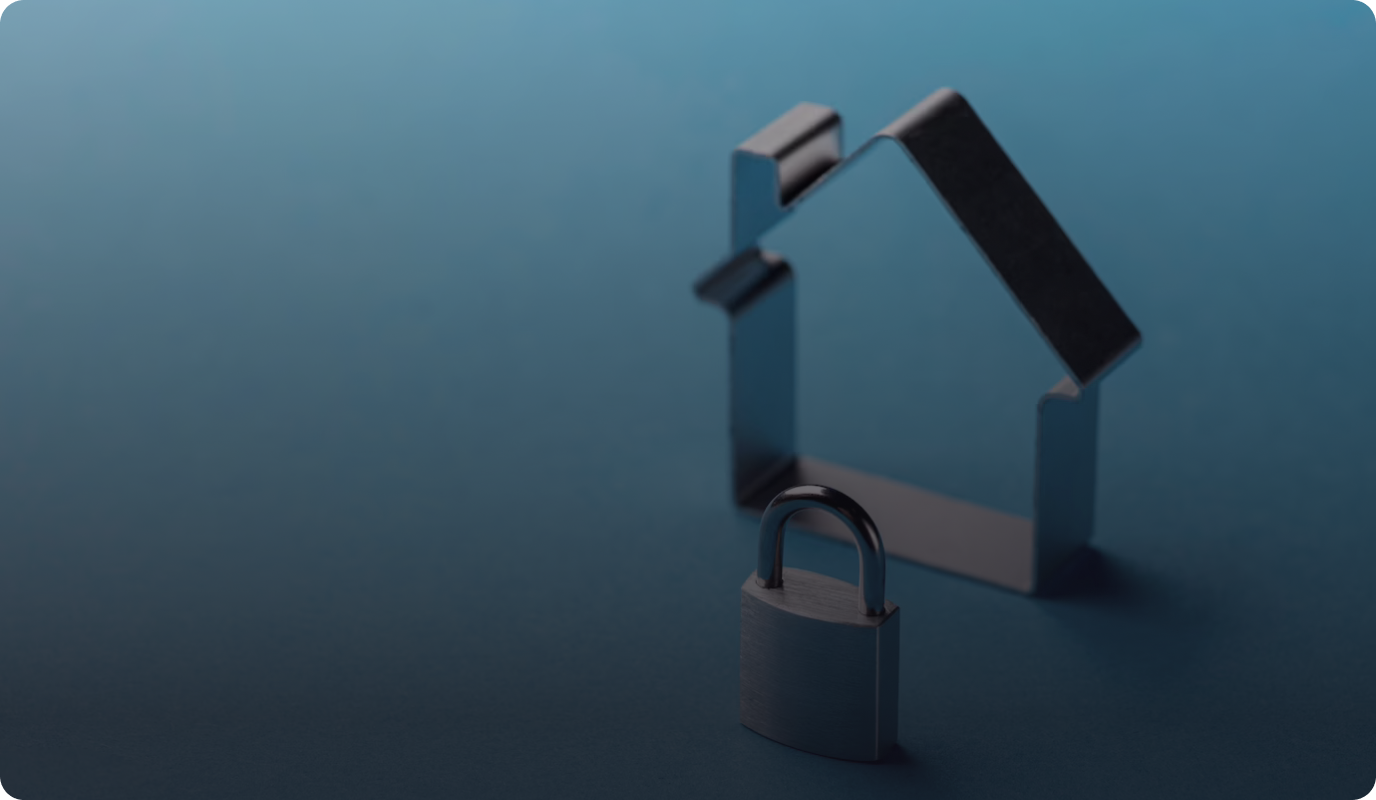
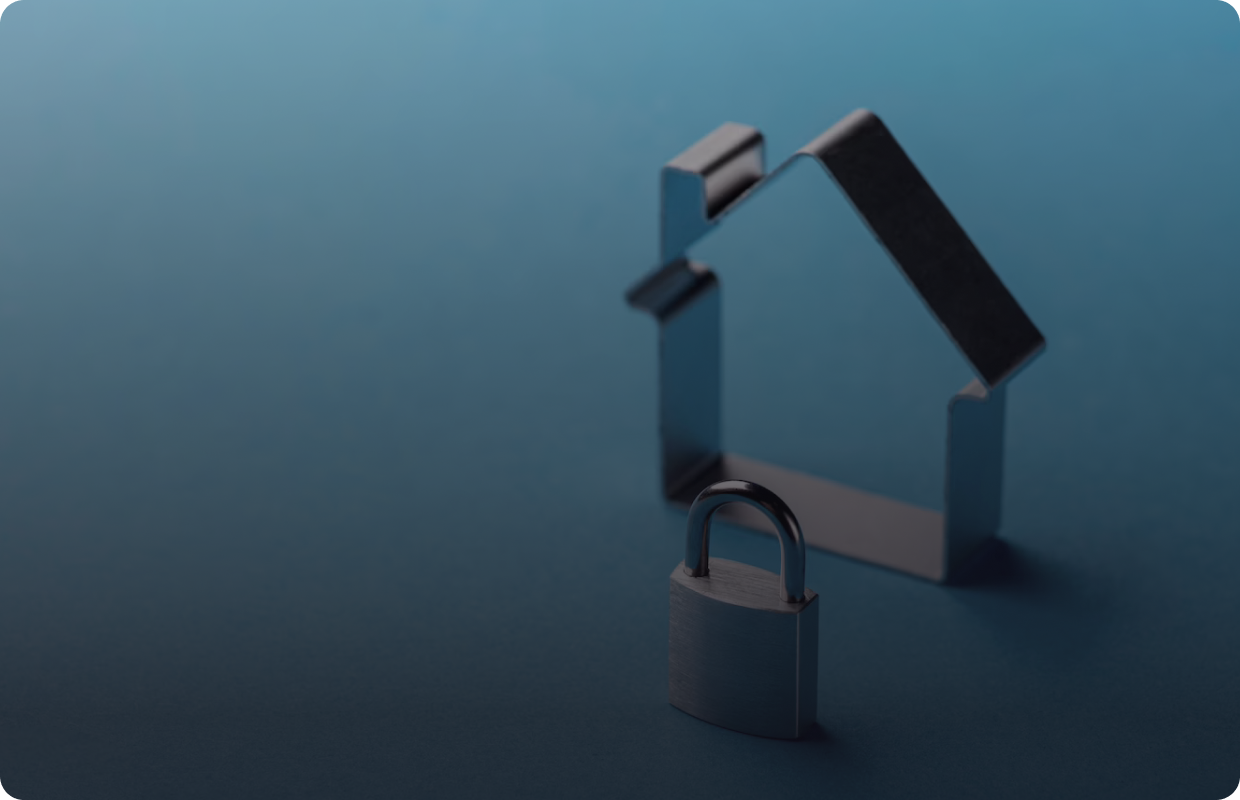
t

diff --git a/src/styles/globals.scss b/src/styles/globals.scss
@@ -20,12 +20,18 @@
   --psw-primary-color: #3e914a;
   --psw-danger-color: #f64e60;
   --psw-text1-color: #242429;
-  --psw-border1-color: rgba(0,0,0,.12);
-  --bs-font-sans-serif: system-ui,-apple-system,"Segoe UI",Roboto,"Helvetica Neue","Noto Sans","Liberation Sans",Arial,sans-serif,"Apple Color Emoji","Segoe UI Emoji","Segoe UI Symbol","Noto Color Emoji";
+  --psw-border1-color: rgba(0, 0, 0, .12);
+  --bs-font-sans-serif: system-ui, -apple-system, "Segoe UI", Roboto, "Helvetica Neue", "Noto Sans", "Liberation Sans", Arial, sans-serif, "Apple Color Emoji", "Segoe UI Emoji", "Segoe UI Symbol", "Noto Color Emoji";
   --bs-body-font-family: var(--bs-font-sans-serif);
 
 }
-@supports (font: -apple-system-body) and (-webkit-appearance: none) { img[loading="lazy"] { clip-path: inset(0.6px) } }
+
+@supports (font: -apple-system-body) and (-webkit-appearance: none) {
+  img[loading="lazy"] {
+    clip-path: inset(0.6px)
+  }
+}
+
 * {
   margin: 0;
   padding: 0;
@@ -33,44 +39,13 @@
 }
 
 html {
-  font-family: var(--bs-body-font-family);
-  background-image: url("../../public/as.png");
-  background-repeat: no-repeat;
-  background-position: top center;
-  background-attachment: fixed;
-  -webkit-background-size: cover;
-  -moz-background-size: cover;
-  -o-background-size: cover;
-  background-size: cover;
-
 
 }
 
-@media all and (max-width: 768px) {
-  html {
-    background-image: url("../../public/as.png");
-    -webkit-background-size: contain;
-    -moz-background-size: contain;
-    -o-background-size: contain;
-    background-size: auto;
-    background-position: top center;
-  }
 
-}
-
-@media all and (max-width: 375px) {
-  html {
-    background-image: url("../../public/as.png");
-    -webkit-background-size: contain;
-    -moz-background-size: contain;
-    -o-background-size: contain;
-    background-size: auto;
-    background-position: center;
-  }
-
-}
 
 body {
+  background: #27282D;
   width: 100%;
   min-height: 100vh;
   font-family: var(--bs-body-font-family);
@@ -80,15 +55,30 @@ body {
   max-width: 100%;
   height: 100%;
   margin: 0 auto;
+  z-index: 200;
+
 
 }
 
 .blur {
 
   transition: 0.3s ease;
-  filter: blur(2px) brightness(65%) ;
+  filter: blur(2px) brightness(65%);
 
 }
+
+
+.paralax {
+  position: fixed;
+  top: 50px;
+ left: 0;
+  max-width: 100%;
+  object-fit: cover;
+  height: 100vh;
+  z-index: -1;
+
+}
+
 
 .gray {
   background: #212121;

diff --git a/src/styles/_contactUs.scss b/src/styles/_contactUs.scss
@@ -121,15 +121,12 @@
         }
       }
 
-      .flag-dropdown {
-        width: 70px;
-      }
 
       .flag-dropdown {
         border: none;
         border-right: 1px solid rgba(255, 255, 255, 0.05);
         background: inherit;
-
+        width: 70px;
 
         .open {
           background: inherit;
@@ -138,8 +135,17 @@
         .selected-flag {
           width: 100%;
 
+          &:hover {
+            background: inherit;
+          }
+
+          &:focus {
+            background: inherit;
+          }
+
           .flag {
             margin-left: 10px;
+
           }
 
           .arrow, .up {
@@ -179,6 +185,7 @@
         &:focus {
           background: inherit;
         }
+
       }
     }
 

diff --git a/src/pages/index.js b/src/pages/index.js
@@ -1,5 +1,8 @@
 import Head from 'next/head';
 import React, { useState } from 'react';
+import Image from 'next/image';
+
+import paralax from '../../public/paralax.png';
 
 import Header from '../components/Header';
 import Welcome from '../components/Welcome';
@@ -29,7 +32,7 @@ export default function Home() {
           isShowMenu.burgerMenu === true || isShowMenu.contactMenu === true ? 'blur' : ''
         }`}
       >
-        {' '}
+        <Image src={paralax} alt="background" className="paralax" />{' '}
         <Header isShowMenu={isShowMenu} setIsShowMenu={setIsShowMenu} />
         <Welcome />
         <Services />

diff --git a/src/styles/_welcome.scss b/src/styles/_welcome.scss
@@ -5,6 +5,7 @@
   flex-direction: column;
   align-items: center;
   gap: 30px;
+  z-index: 100;
 
   .main-title {
     font-family: var(--bs-body-font-family);
